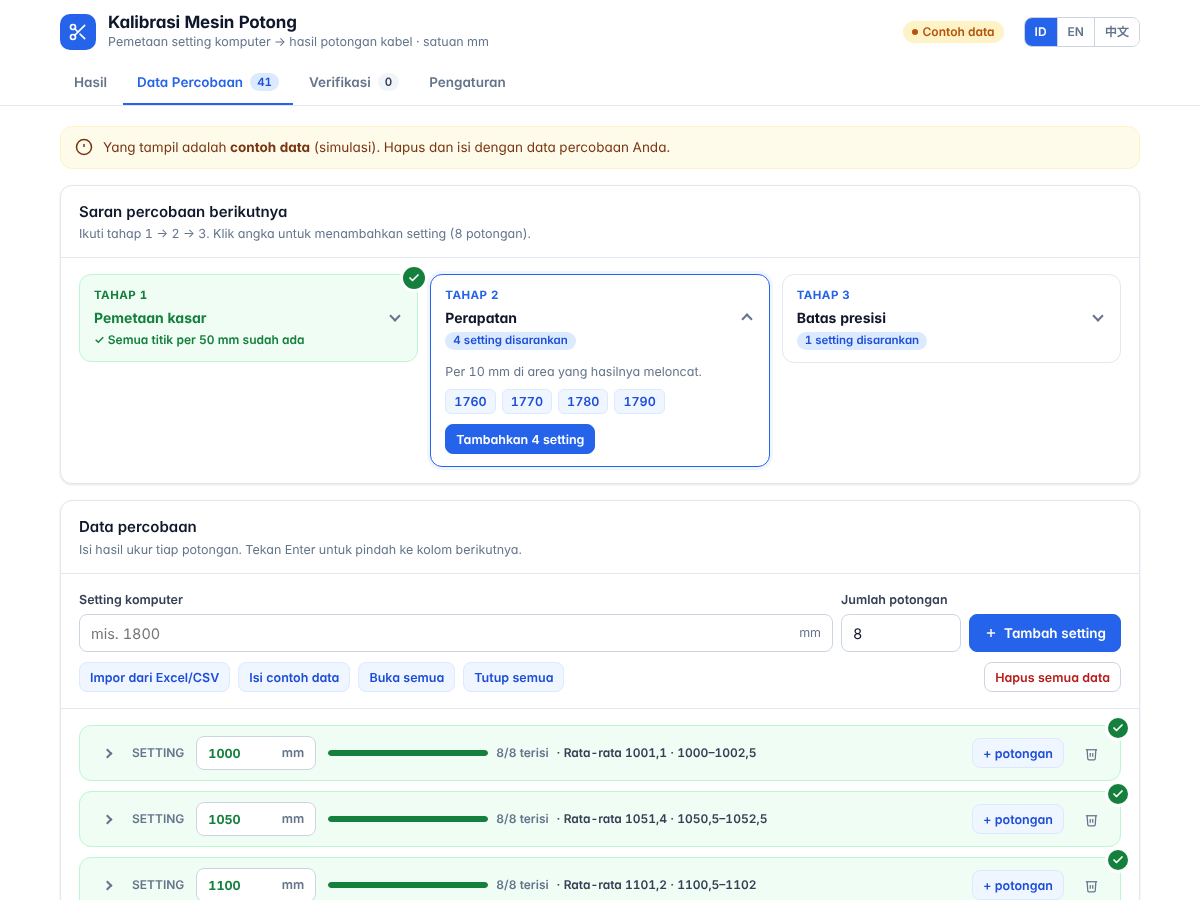
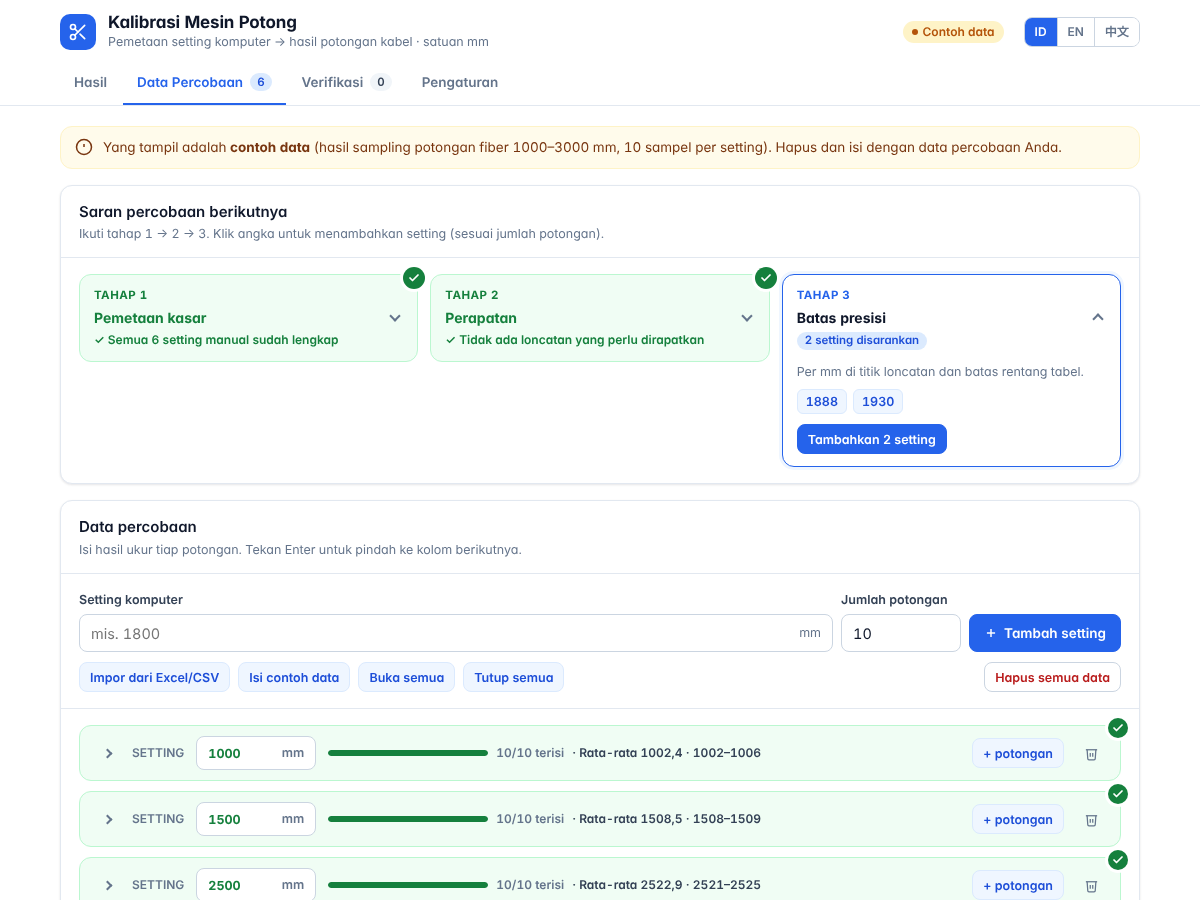
Use real fiber cut sampling (1000-3000 mm, 10 pcs/setting) as sample data
- Sample data from Hasil_Sampling_Potongan_Fiber_1000mm-3000mm.xlsx
- Default number of cuts 10 (also used for suggestions and verification)
- Stage 2 jump detection compares against the machine trend, so a
  proportional (gain) error is not flagged as a jump
- Sample data opens Stage 1 in Manual mode

Claude-Session: https://claude.ai/code/session_012YpKXFKuL8qfAd7MSWeyxr

diff --git a/index.html b/index.html
@@ -321,7 +321,7 @@ svg.chart{width:100%;height:auto;display:block}
       <div class="card-b" style="border-bottom:1px solid var(--line)">
         <div class="toolbar">
           <div class="field" style="flex:1;min-width:150px"><label for="newSp" data-i="f.newSp"></label><div class="unit"><input id="newSp" class="inp" type="number" step="1" inputmode="numeric" data-iph="ph.newSp"></div></div>
-          <div class="field" style="width:120px"><label for="newN" data-i="f.newN"></label><input id="newN" class="inp" type="number" min="1" max="50" value="8" inputmode="numeric"></div>
+          <div class="field" style="width:120px"><label for="newN" data-i="f.newN"></label><input id="newN" class="inp" type="number" min="1" max="50" value="10" inputmode="numeric"></div>
           <button class="btn btn-pri" id="btnAddSp" style="height:38px"><svg width="14" height="14" viewBox="0 0 24 24" fill="none" stroke="currentColor" stroke-width="2.5"><line x1="12" y1="5" x2="12" y2="19"/><line x1="5" y1="12" x2="19" y2="12"/></svg><span data-i="btn.addSp"></span></button>
         </div>
         <div id="msg" class="errline"></div>
@@ -456,8 +456,9 @@ function safeRange(S,P,tolMin,tolPlus,M){
 }
 function suggestions(S,rmin,rmax,lookupRows){
   const tested=new Set(S.map(x=>x.sp));const t1=[],t2=new Set(),t3=new Set();
+  const slope=S.length>=2?fitLine(S).b:1; // tren mesin
   for(let i=0;i<S.length-1;i++){
-    const a=S[i],b=S[i+1],jump=Math.abs(b.sel-a.sel),gap=b.sp-a.sp;
+    const a=S[i],b=S[i+1],gap=b.sp-a.sp,jump=Math.abs((b.mean-a.mean)-slope*gap); // loncatan = menyimpang dari tren
     if(jump<=5)continue;
     if(gap>10){for(let s=Math.ceil((a.sp+1)/10)*10;s<b.sp;s+=10)if(!tested.has(s))t2.add(s);}
     else if(gap>1){const m=Math.round((a.sp+b.sp)/2);if(!tested.has(m))t3.add(m);}
@@ -474,7 +475,7 @@ id:{
  'brand.title':'Kalibrasi Mesin Potong','brand.sub':'Pemetaan setting komputer → hasil potongan kabel · satuan mm',
  'tab.hasil':'Hasil','tab.data':'Data Percobaan','tab.ver':'Verifikasi','tab.set':'Pengaturan',
  'badge.sample':'Contoh data','badge.user':'Data Anda',
- 'banner.txt':'Yang tampil adalah <b>contoh data</b> (simulasi). Hapus dan isi dengan data percobaan Anda.','banner.btn':'Ke Data Percobaan',
+ 'banner.txt':'Yang tampil adalah <b>contoh data</b> (hasil sampling potongan fiber 1000–3000 mm, 10 sampel per setting). Hapus dan isi dengan data percobaan Anda.','banner.btn':'Ke Data Percobaan',
  'empty.title':'Belum cukup data','empty.txt':'Isi minimal 2 setting yang sudah ada hasil ukurnya untuk melihat tabel setting.','empty.btn':'Mulai isi data percobaan',
  'find.title':'Cari setting untuk pesanan','find.desc':'Masukkan panjang kabel yang dipesan','find.label':'Panjang pesanan',
  'model.title':'Model mesin',
@@ -483,7 +484,7 @@ id:{
  'chart.title':'Grafik hasil potongan',
  'lg.pt':'Tiap potongan','lg.mean':'Rata-rata','lg.ideal':'Hasil = setting','lg.fit':'Garis rumus','lg.ok':'Hasil diterima','lg.safe':'Setting aman',
  'zoom.all':'Semua data','zoom.order':'Sekitar pesanan','sum.title':'Ringkasan per setting','sum.desc':'rata-rata, min, maks, variasi',
- 'sug.title':'Saran percobaan berikutnya','sug.desc':'Ikuti tahap 1 → 2 → 3. Klik angka untuk menambahkan setting (8 potongan).',
+ 'sug.title':'Saran percobaan berikutnya','sug.desc':'Ikuti tahap 1 → 2 → 3. Klik angka untuk menambahkan setting (sesuai jumlah potongan).',
  'data.title':'Data percobaan','data.desc':'Isi hasil ukur tiap potongan. Tekan Enter untuk pindah ke kolom berikutnya.',
  'f.newSp':'Setting komputer','ph.newSp':'mis. 1800','f.newN':'Jumlah potongan','btn.addSp':'Tambah setting',
  'btn.import':'Impor dari Excel/CSV','btn.sample':'Isi contoh data','btn.openAll':'Buka semua','btn.closeAll':'Tutup semua','btn.clear':'Hapus semua data','btn.clearArm':'Klik lagi untuk menghapus',
@@ -506,7 +507,7 @@ id:{
  'hero.put':'Pasang setting komputer','hero.saran':'Saran','hero.acc':'Hasil diterima {a}–{b} mm',
  'b.ok':'Teruji','b.part':'Sebagian teruji','b.est':'Perkiraan',
  'n.outData':'Rentang ini di luar setting yang pernah diuji (perpanjangan rumus). Wajib diuji dulu.',
- 'n.ends':'Batas rentang belum diuji langsung. Uji setting <b>{a}</b> dan <b>{b}</b> (8 potongan).',
+ 'n.ends':'Batas rentang belum diuji langsung. Uji setting <b>{a}</b> dan <b>{b}</b> ({n} potongan).',
  'n.other':'Rentang lain yang juga aman: {r}','btn.verThis':'Verifikasi setting ini →',
  'hero.badHead':'Pesanan {p} mm · hasil diterima {a}–{b} mm','hero.none':'Belum ada setting yang aman',
  'n.out':'Pesanan di luar jangkauan data. Tambah percobaan di sekitar setting {p} mm.',
@@ -543,7 +544,7 @@ en:{
  'brand.title':'Cutting Machine Calibration','brand.sub':'Mapping computer setting → cable cut result · unit mm',
  'tab.hasil':'Results','tab.data':'Trial Data','tab.ver':'Verification','tab.set':'Settings',
  'badge.sample':'Sample data','badge.user':'Your data',
- 'banner.txt':'You are viewing <b>sample data</b> (simulation). Clear it and enter your own trial data.','banner.btn':'Go to Trial Data',
+ 'banner.txt':'You are viewing <b>sample data</b> (fiber cut sampling 1000–3000 mm, 10 samples per setting). Clear it and enter your own trial data.','banner.btn':'Go to Trial Data',
  'empty.title':'Not enough data','empty.txt':'Enter at least 2 settings with measured results to see the setting table.','empty.btn':'Start entering trial data',
  'find.title':'Find setting for an order','find.desc':'Enter the ordered cable length','find.label':'Order length',
  'model.title':'Machine model',
@@ -552,7 +553,7 @@ en:{
  'chart.title':'Cut result chart',
  'lg.pt':'Each cut','lg.mean':'Average','lg.ideal':'Result = setting','lg.fit':'Formula line','lg.ok':'Accepted result','lg.safe':'Safe setting',
  'zoom.all':'All data','zoom.order':'Around order','sum.title':'Summary per setting','sum.desc':'average, min, max, variation',
- 'sug.title':'Next trial suggestions','sug.desc':'Follow stage 1 → 2 → 3. Click a number to add that setting (8 cuts).',
+ 'sug.title':'Next trial suggestions','sug.desc':'Follow stage 1 → 2 → 3. Click a number to add that setting (with the set number of cuts).',
  'data.title':'Trial data','data.desc':'Enter the measured result of each cut. Press Enter to move to the next field.',
  'f.newSp':'Computer setting','ph.newSp':'e.g. 1800','f.newN':'Number of cuts','btn.addSp':'Add setting',
  'btn.import':'Import from Excel/CSV','btn.sample':'Load sample data','btn.openAll':'Expand all','btn.closeAll':'Collapse all','btn.clear':'Clear all data','btn.clearArm':'Click again to clear',
@@ -575,7 +576,7 @@ en:{
  'hero.put':'Set the computer to','hero.saran':'Suggested','hero.acc':'Accepted result {a}–{b} mm',
  'b.ok':'Tested','b.part':'Partly tested','b.est':'Estimated',
  'n.outData':'This range is outside the tested settings (formula extrapolation). It must be tested first.',
- 'n.ends':'Range limits not directly tested yet. Test settings <b>{a}</b> and <b>{b}</b> (8 cuts).',
+ 'n.ends':'Range limits not directly tested yet. Test settings <b>{a}</b> and <b>{b}</b> ({n} cuts).',
  'n.other':'Other safe ranges: {r}','btn.verThis':'Verify this setting →',
  'hero.badHead':'Order {p} mm · accepted result {a}–{b} mm','hero.none':'No safe setting yet',
  'n.out':'The order is outside the data range. Add trials around setting {p} mm.',
@@ -612,7 +613,7 @@ zh:{
  'brand.title':'裁切机校准','brand.sub':'电脑设定值 → 线缆裁切结果对照 · 单位 mm',
  'tab.hasil':'结果','tab.data':'试验数据','tab.ver':'验证','tab.set':'设置',
  'badge.sample':'示例数据','badge.user':'您的数据',
- 'banner.txt':'当前显示的是<b>示例数据</b>（模拟）。请清除后输入您的试验数据。','banner.btn':'前往试验数据',
+ 'banner.txt':'当前显示的是<b>示例数据</b>（光纤裁切抽样 1000–3000 mm，每个设定值 10 个样本）。请清除后输入您的试验数据。','banner.btn':'前往试验数据',
  'empty.title':'数据不足','empty.txt':'请至少输入 2 个已有测量结果的设定值，才能查看设定对照表。','empty.btn':'开始输入试验数据',
  'find.title':'查找订单设定值','find.desc':'输入订单线缆长度','find.label':'订单长度',
  'model.title':'机器模型',
@@ -621,7 +622,7 @@ zh:{
  'chart.title':'裁切结果图',
  'lg.pt':'每次裁切','lg.mean':'平均值','lg.ideal':'结果 = 设定值','lg.fit':'公式线','lg.ok':'可接受结果','lg.safe':'安全设定',
  'zoom.all':'全部数据','zoom.order':'订单附近','sum.title':'各设定值汇总','sum.desc':'平均值、最小值、最大值、波动',
- 'sug.title':'下一步试验建议','sug.desc':'按阶段 1 → 2 → 3 进行。点击数字即可添加该设定值（8 次裁切）。',
+ 'sug.title':'下一步试验建议','sug.desc':'按阶段 1 → 2 → 3 进行。点击数字即可添加该设定值（按设定的裁切次数）。',
  'data.title':'试验数据','data.desc':'输入每次裁切的测量结果。按 Enter 跳到下一格。',
  'f.newSp':'电脑设定值','ph.newSp':'例如 1800','f.newN':'裁切次数','btn.addSp':'添加设定值',
  'btn.import':'从 Excel/CSV 导入','btn.sample':'载入示例数据','btn.openAll':'全部展开','btn.closeAll':'全部收起','btn.clear':'清除全部数据','btn.clearArm':'再次点击以清除',
@@ -644,7 +645,7 @@ zh:{
  'hero.put':'电脑设定值','hero.saran':'建议','hero.acc':'可接受结果 {a}–{b} mm',
  'b.ok':'已测试','b.part':'部分测试','b.est':'估算',
  'n.outData':'此范围超出已测设定值（公式外推），必须先测试。',
- 'n.ends':'范围端点尚未直接测试。请测试设定值 <b>{a}</b> 和 <b>{b}</b>（各 8 根）。',
+ 'n.ends':'范围端点尚未直接测试。请测试设定值 <b>{a}</b> 和 <b>{b}</b>（各 {n} 根）。',
  'n.other':'其他安全范围：{r}','btn.verThis':'验证此设定 →',
  'hero.badHead':'订单 {p} mm · 可接受结果 {a}–{b} mm','hero.none':'暂无安全设定值',
  'n.out':'订单超出数据范围。请在设定值 {p} mm 附近增加试验。',
@@ -794,7 +795,7 @@ $('sugBox').addEventListener('click',e=>{const b=e.target.closest('button');if(!
   if(d.t1mode){T1.mode=d.t1mode;saveT1();STEP_OPEN[1]=true;hitung();return;}
   if(d.tog){const s=b.closest('.step');const o=!s.classList.contains('open');s.classList.toggle('open',o);b.setAttribute('aria-expanded',o);STEP_OPEN[d.tog]=o;return;}
   if(d.sug)add=[+d.sug];if(d.all&&LAST.sug)add=LAST.sug[d.all];if(!add.length)return;
-  let n=0;add.forEach(s=>{if(addSetting(s,8))n++;});add.forEach(s=>SET_OPEN[s]=true);if(!n){drawGroups();const gi=GROUPS.findIndex(g=>g.sp===add[0]);const c=gi>=0&&(GROUPS[gi].vals.findIndex(v=>v==='')>=0?GROUPS[gi].vals.findIndex(v=>v===''):0);const el=gi>=0&&$('c'+gi+'_'+c);if(el){el.scrollIntoView({block:'center',behavior:'smooth'});el.focus({preventScroll:true});}return;}
+  let n=0;add.forEach(s=>{if(addSetting(s,NCUT()))n++;});add.forEach(s=>SET_OPEN[s]=true);if(!n){drawGroups();const gi=GROUPS.findIndex(g=>g.sp===add[0]);const c=gi>=0&&(GROUPS[gi].vals.findIndex(v=>v==='')>=0?GROUPS[gi].vals.findIndex(v=>v===''):0);const el=gi>=0&&$('c'+gi+'_'+c);if(el){el.scrollIntoView({block:'center',behavior:'smooth'});el.focus({preventScroll:true});}return;}
   isContoh=false;drawGroups();changed();
   toast(t('toast.added',{n}));const gi=GROUPS.findIndex(g=>g.sp===add[0]);
   if(gi>=0&&$('c'+gi+'_0')){$('c'+gi+'_0').scrollIntoView({block:'center',behavior:'smooth'});$('c'+gi+'_0').focus({preventScroll:true});}});
@@ -875,6 +876,7 @@ function drawChart(S,res,M){
 
 /* --- render hasil --- */
 const SAME_MM=2;
+const NCUT=()=>Math.min(50,Math.max(1,parseInt($('newN').value)||8));
 function groupRows(S){const rows=[];S.forEach(x=>{const r=rows[rows.length-1];
     if(r&&Math.abs(x.mean-r.avg)<=SAME_MM){r.b=x.sp;r.items.push(x);r.avg=r.items.reduce((q,i)=>q+i.mean,0)/r.items.length;r.min=Math.min(r.min,x.min);r.max=Math.max(r.max,x.max);r.n+=x.n;r.mMin=Math.min(r.mMin,x.mean);r.mMax=Math.max(r.mMax,x.mean);}
     else rows.push({a:x.sp,b:x.sp,items:[x],avg:x.mean,min:x.min,max:x.max,n:x.n,mMin:x.mean,mMax:x.mean});});return rows;}
@@ -914,7 +916,7 @@ function render(){
         <div class="meta"><span>${t('hero.saran')}: <b>${fmt(sg.mid,0)} mm</b></span><span>${t('hero.acc',{a:fmt(r.lo,0),b:fmt(r.hi,0)})}</span>${pill(bk,bt)}</div></div>`;
       if(M.use==='rumus')h+=`<div class="formula">${t('eq.setting')} = (${fmt(tgtMid(P),1)} ${mn(M.fit.a)}) / ${fmt(M.fit.b,5)} = <b>${fmt((tgtMid(P)-M.fit.a)/M.fit.b,1)}</b></div>`;
       if(!sg.inData)h+=note(t('n.outData'));
-      else if(!sg.endsTested)h+=note(t('n.ends',{a:fmt(sg.a,0),b:fmt(sg.b,0)}));
+      else if(!sg.endsTested)h+=note(t('n.ends',{a:fmt(sg.a,0),b:fmt(sg.b,0),n:NCUT()}));
       if(r.segs.length>1)h+=note(t('n.other',{r:r.segs.filter(x=>x!==sg).map(rangeTxt).join(', ')}),'info');
       h+=`<div style="margin-top:12px"><button class="btn btn-sm" id="btnVerThis">${t('btn.verThis')}</button></div>`;
     }else{
@@ -962,7 +964,7 @@ function hitung(){
 
 /* --- verifikasi --- */
 function addVer(p,sp){let tgl='';try{tgl=new Date().toISOString().slice(0,10);}catch(e){}
-  VERS.unshift({p:p||'',sp:sp||'',tgl,vals:Array(8).fill('')});drawVers();simpan();setTimeout(()=>{if($('v0_0'))$('v0_0').focus();},50);}
+  VERS.unshift({p:p||'',sp:sp||'',tgl,vals:Array(NCUT()).fill('')});drawVers();simpan();setTimeout(()=>{if($('v0_0'))$('v0_0').focus();},50);}
 function drawVers(){
   $('verBody').innerHTML=VERS.length?VERS.map((v,vi)=>`<div class="set"><div class="set-h">
     <div class="field" style="width:130px"><label>${t('ver.order')}</label><div class="unit"><input class="inp" data-v="${vi}" data-f="p" type="number" step="1" value="${v.p}"></div></div>
@@ -999,15 +1001,16 @@ $('btnCopy').onclick=()=>{if(!LAST.rows)return;
   try{navigator.clipboard.writeText(txt).then(()=>toast(t('toast.copied')),()=>toast(t('toast.copyFail'),1));}catch(e){toast(t('toast.copyFail'),1);}};
 
 /* --- simpan, contoh, auto --- */
-const FIELDS=['tolMin','tolPlus','rmin','rmax','order','mode'];
+const FIELDS=['tolMin','tolPlus','rmin','rmax','order','mode','newN'];
 const OLD_FIELDS=['tolMin','tolPlus','rmin','rmax','rstep','order','mode'];
 function simpan(){try{localStorage.setItem('kmp3',JSON.stringify({g:GROUPS,v:VERS,c:isContoh,fo:Object.fromEntries(FIELDS.map(i=>[i,$(i).value]))}));}catch(e){}}
 function muat(){try{const j=JSON.parse(localStorage.getItem('kmp3')||localStorage.getItem('kmp2')||'null');if(!j)return false;if(Array.isArray(j.g))GROUPS=j.g;if(Array.isArray(j.v))VERS=j.v;isContoh=!!j.c;const fo=j.fo||(Array.isArray(j.f)?Object.fromEntries(OLD_FIELDS.map((i,k)=>[i,j.f[k]])):{});FIELDS.forEach(i=>{if(fo[i]!=null&&fo[i]!=='')$(i).value=fo[i];});return true;}catch(e){return false;}}
+// Contoh data: hasil sampling potongan fiber 1000–3000 mm (file Hasil_Sampling_Potongan_Fiber_1000mm_-_3000mm.xlsx)
+const SAMPLE_DATA={1000:[1006,1002,1002,1002,1002,1002,1002,1002,1002,1002],1500:[1509,1508,1508,1509,1509,1509,1508,1509,1508,1508],2500:[2523,2521,2522,2524,2525,2522,2523,2524,2522,2523],2800:[2825,2829,2826,2827,2828,2827,2829,2828,2830,2829],2850:[2879,2876,2877,2877,2877,2879,2878,2878,2878,2878],3000:[3031,3031,3031,3030,3032,3031,3031,3031,3031,3030]};
 function contoh(){
-  let seed=11;const rnd=()=>{seed=(seed*16807)%2147483647;return seed/2147483647;};
-  const mesin=s=>s<1770?s:Math.floor(s/50)*50+50;
-  GROUPS=[];for(let s=1000;s<=3000;s+=50){const v=[];for(let i=0;i<8;i++)v.push(String(Math.round((mesin(s)+rnd()*3)*2)/2));GROUPS.push({sp:s,vals:v});}
-  $('rmin').value=1000;$('rmax').value=3000;
+  GROUPS=Object.keys(SAMPLE_DATA).map(Number).sort((a,b)=>a-b).map(sp=>({sp,vals:SAMPLE_DATA[sp].map(String)}));
+  $('rmin').value=1000;$('rmax').value=3000;$('newN').value=10;
+  try{T1={mode:'man'};saveT1();}catch(e){}
   drawGroups();
 }
 function setBanner(){$('banner').classList.toggle('hidden',!isContoh);const b=$('dataBadge');b.className='pill '+(isContoh?'p-warn':'p-ok');b.textContent=isContoh?t('badge.sample'):t('badge.user');}

diff --git a/README.md b/README.md
@@ -18,7 +18,7 @@ Jika ada pesanan kabel 1900 mm, operator memasang setting di rentang yang hasiln
 
 ## Latar belakang
 
-Toleransi mesin potong tidak konstan di semua ukuran. Hubungan antara setting di komputer dan hasil potongnya juga belum diketahui, dan bisa bertangga atau meloncat. Karena itu hubungan tersebut perlu dipetakan dari data percobaan: setiap setting dipotong beberapa kali (default 8 potongan), lalu hasilnya diukur.
+Toleransi mesin potong tidak konstan di semua ukuran. Hubungan antara setting di komputer dan hasil potongnya juga belum diketahui, dan bisa bertangga atau meloncat. Karena itu hubungan tersebut perlu dipetakan dari data percobaan: setiap setting dipotong beberapa kali (default 10 potongan), lalu hasilnya diukur.
 
 ## Fitur
 
@@ -66,7 +66,7 @@ Toleransi mesin potong tidak konstan di semua ukuran. Hubungan antara setting di
 1. Buka tab **Pengaturan**, cek toleransi dan rentang pesanan.
 2. Buka tab **Data Percobaan**, klik **Hapus semua data** (dua kali) untuk membuang contoh data.
 3. Di **Tahap 1**, pilih *Rekomendasi* lalu **Tambahkan … setting**, atau pilih *Manual* lalu tambah setting sendiri.
-4. Potong 8 kali di setiap setting, ukur hasilnya, lalu isi kolom Potongan 1–8.
+4. Potong beberapa kali (default 10) di setiap setting, ukur hasilnya, lalu isi kolom Potongan 1–8.
 5. Ikuti **Tahap 2** dan **Tahap 3** sampai semua tahap bercentang hijau.
 6. Di tab **Hasil**, cari pesanan atau salin tabel estimasi ke Excel.
 7. Verifikasi setting di produksi lewat tab **Verifikasi**.
@@ -103,7 +103,7 @@ README.md
 ## Batasan
 
 - Data disimpan di **browser masing-masing perangkat** (localStorage). Data tidak otomatis tersinkron antar perangkat atau antar pengguna, dan bisa hilang jika cache browser dibersihkan. Untuk berbagi, gunakan **Salin ke Excel** atau impor CSV.
-- Contoh data bawaan adalah **simulasi** (mesin bertangga 1000–3000 mm), bukan data mesin nyata.
+- Contoh data bawaan berasal dari **hasil sampling potongan fiber** (setting 1000, 1500, 2500, 2800, 2850, 3000 mm; 10 sampel per setting). Data ini hanya contoh dan perlu dilengkapi untuk rentang 1500–2500 mm.
 - Tidak ada fitur unduh file (CSV/Excel) di dalam pratinjau artifact. Fitur ini bisa ditambahkan setelah aplikasi berjalan di GitHub Pages.
 
 ---
